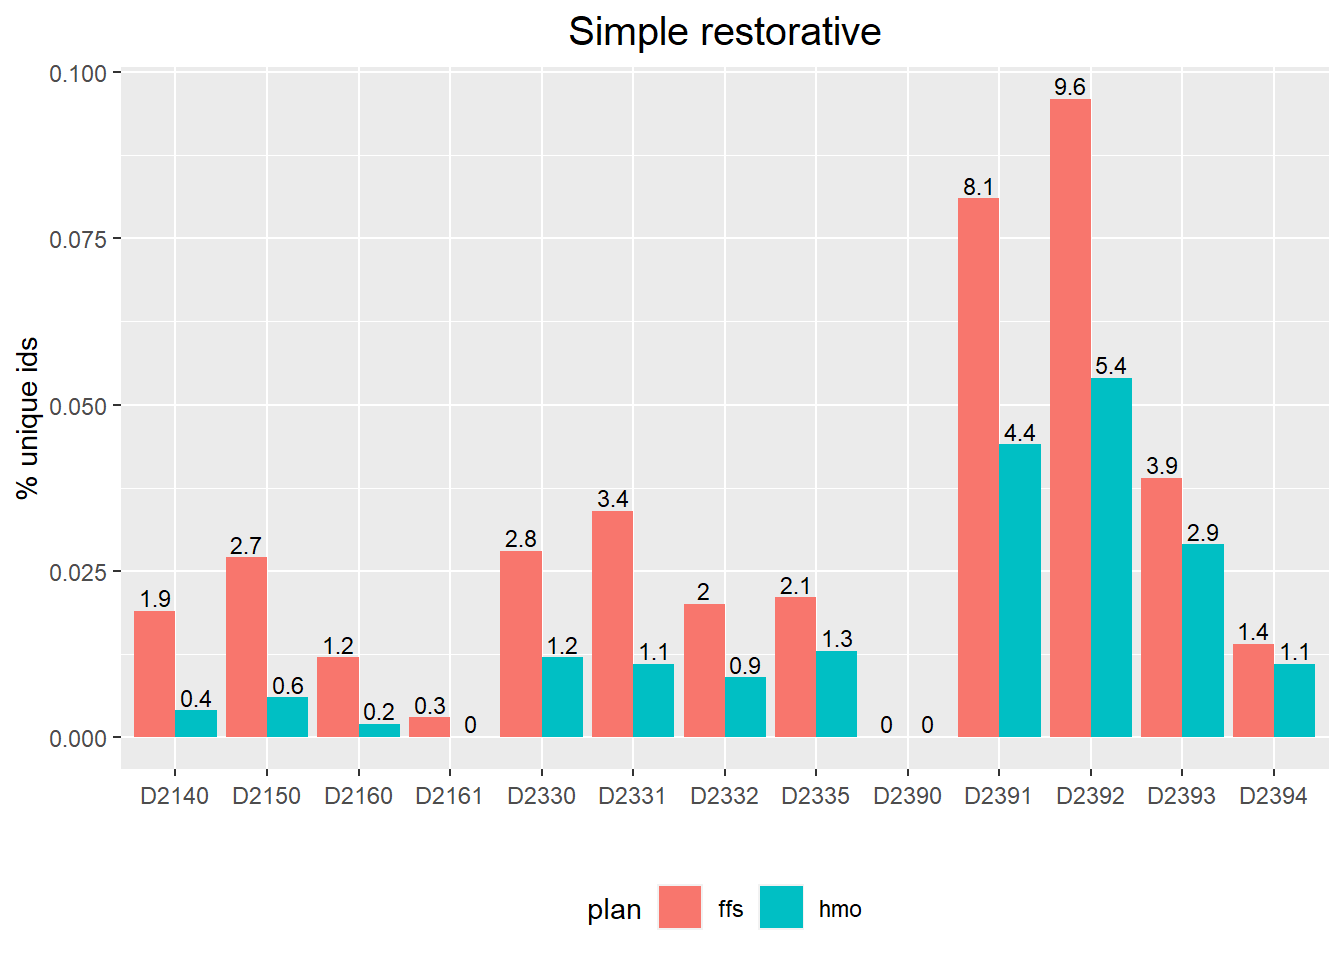
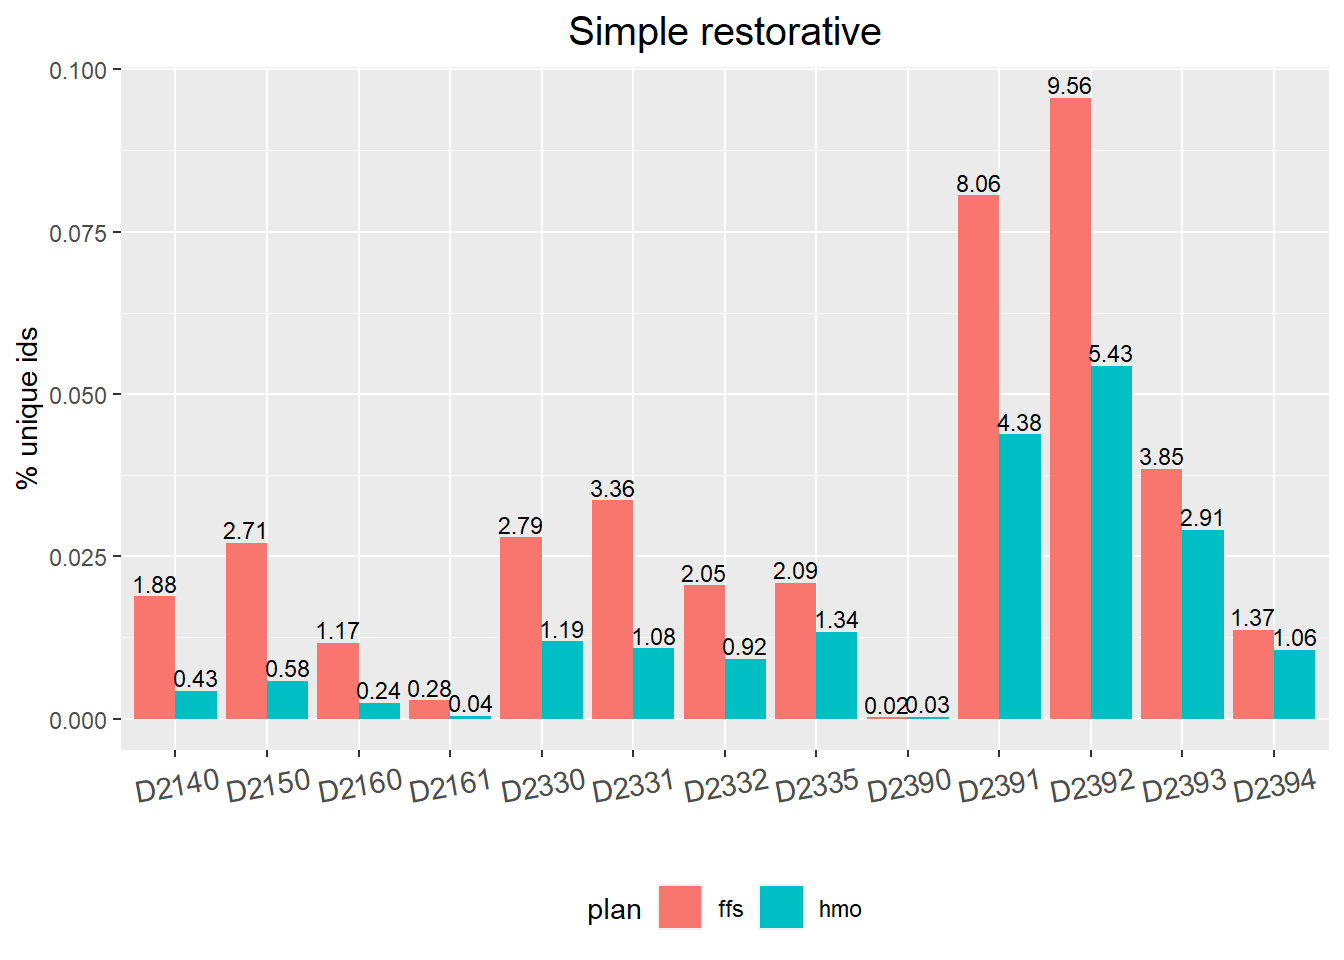
11/4/2024

diff --git a/docs/part3.html b/docs/part3.html
@@ -416,7 +416,7 @@ aria-hidden="true"></span> </a>
 <div class="tab-content">
 <div id="summary" class="tab-pane fade in active">
 <p>
-<strong>Last updated:</strong> 2024-11-01
+<strong>Last updated:</strong> 2024-11-04
 </p>
 <p>
 <strong>Checks:</strong> <span
@@ -550,15 +550,15 @@ project makes it easier to run your code on other machines.</p>
 <div class="panel panel-default">
 <div class="panel-heading">
 <p class="panel-title">
-<a data-toggle="collapse" data-parent="#workflowr-checks" href="#strongRepositoryversionstrongahrefhttpsgithubcomhan16Oralpublichealthtree2da4b5e4b8f3a76e1f629f2bcb849fd30c4a92abtargetblank2da4b5ea">
+<a data-toggle="collapse" data-parent="#workflowr-checks" href="#strongRepositoryversionstrongahrefhttpsgithubcomhan16Oralpublichealthtreef0d765cd293d3217e3730fe6b5bce113d9d0e7cetargetblankf0d765ca">
 <span class="glyphicon glyphicon-ok text-success"
 aria-hidden="true"></span> <strong>Repository version:</strong>
-<a href="https://github.com/han16/Oral-public-health/tree/2da4b5e4b8f3a76e1f629f2bcb849fd30c4a92ab" target="_blank">2da4b5e</a>
+<a href="https://github.com/han16/Oral-public-health/tree/f0d765cd293d3217e3730fe6b5bce113d9d0e7ce" target="_blank">f0d765c</a>
 </a>
 </p>
 </div>
 <div
[2 lines of base64/hex data omitted]
 class="panel-collapse collapse">
 <div class="panel-body">
 <p>
@@ -568,7 +568,7 @@ reproducibility.
 </p>
 <p>
 The results in this page were generated with repository version
-<a href="https://github.com/han16/Oral-public-health/tree/2da4b5e4b8f3a76e1f629f2bcb849fd30c4a92ab" target="_blank">2da4b5e</a>.
+<a href="https://github.com/han16/Oral-public-health/tree/f0d765cd293d3217e3730fe6b5bce113d9d0e7ce" target="_blank">f0d765c</a>.
 See the <em>Past versions</em> tab to see a history of the changes made
 to the R Markdown and HTML files.
 </p>
@@ -585,6 +585,7 @@ were generated:
 Ignored files:
     Ignored:    .Rhistory
     Ignored:    analysis/ddwi_part1_cache/
+    Ignored:    analysis/figure/
     Ignored:    analysis/part1_cache/
 
 Unstaged changes:
@@ -633,6 +634,40 @@ Message
 </tr>
 </thead>
 <tbody>
+<tr>
+<td>
+Rmd
+</td>
+<td>
+<a href="https://github.com/han16/Oral-public-health/blob/f0d765cd293d3217e3730fe6b5bce113d9d0e7ce/analysis/part3.Rmd" target="_blank">f0d765c</a>
+</td>
+<td>
+han
+</td>
+<td>
+2024-11-01
+</td>
+<td>
+11/1/2024
+</td>
+</tr>
+<tr>
+<td>
+html
+</td>
+<td>
+<a href="https://rawcdn.githack.com/han16/Oral-public-health/f0d765cd293d3217e3730fe6b5bce113d9d0e7ce/docs/part3.html" target="_blank">f0d765c</a>
+</td>
+<td>
+han
+</td>
+<td>
+2024-11-01
+</td>
+<td>
+11/1/2024
+</td>
+</tr>
 <tr>
 <td>
 Rmd
@@ -955,6 +990,22 @@ calculate_prop=function(code)
   hmo_prop=length(unique(data_year2019$hmo_claims_2019 %&gt;% filter(PROCEDURE_CODE==code) %&gt;% select(RECIPIENT_ID) %&gt;% pull))/num_id_hmo
   ffs_prop=length(unique(data_year2019$ffs_claims_2019 %&gt;% filter(PROCEDURE_CODE==code) %&gt;% select(RECIPIENT_ID) %&gt;% pull))/num_id_ffs
   return(list(hmo_prop, ffs_prop))
+}
+
+plot_figure=function(data, title, angle=0, num_size=3)
+{
+  
+  fig=ggplot(data, aes(x=code, y=prop,fill=plan)) +geom_bar(position = &quot;dodge&quot;, stat=&quot;identity&quot;)+
+ # ylim(c(0, 0.7))+
+  ylab(&quot;% unique ids&quot;)+
+  xlab(&quot;&quot;)+
+  theme(legend.position=&quot;bottom&quot;)+
+  theme(axis.text.x = element_text(angle = angle, vjust = 0.5, size=11))+
+  geom_text(aes(label=prop*100), position=position_dodge(width=0.9), vjust=-0.25, size=num_size)+  # add numbers over bars
+  ggtitle(title)+
+  theme(plot.title = element_text(hjust = 0.5, size=15))  #center the title
+  
+  return(fig)
 }</code></pre>
 <div id="diagnostic-all-cdt-codes-in-the-range-of-d0100-to-d0999"
 class="section level3">
@@ -963,15 +1014,8 @@ class="section level3">
 y=sapply(diagnostic_code,calculate_prop)
 
 
-ggplot(data.frame(prop=round(unlist(y),3), code=rep(diagnostic_code, each=2), plan=rep(c(&quot;hmo&quot;, &quot;ffs&quot;), length(diagnostic_code))), aes(x=code, y=prop,fill=plan)) +geom_bar(position = &quot;dodge&quot;, stat=&quot;identity&quot;)+
- # ylim(c(0, 0.7))+
-  ylab(&quot;% unique ids&quot;)+
-  xlab(&quot;&quot;)+
-  theme(legend.position=&quot;bottom&quot;)+
-  theme(axis.text.x = element_text(angle = 30, vjust = 0.5, size=11))+
-  geom_text(aes(label=prop*100), position=position_dodge(width=0.9), vjust=-0.25, size=3)+  # add numbers over bars
-  ggtitle(&quot;Diagnostic All CDT codes&quot;)+
-  theme(plot.title = element_text(hjust = 0.5, size=15))  #center the title</code></pre>
+fig=plot_figure(data.frame(prop=round(unlist(y),3), code=rep(diagnostic_code, each=2), plan=rep(c(&quot;hmo&quot;, &quot;ffs&quot;), length(diagnostic_code))), title=&quot;Diagnostic All CDT codes&quot;, angle=30)
+fig</code></pre>
 <p><img src="figure/part3.Rmd/unnamed-chunk-6-1.png" width="672" style="display: block; margin: auto;" /></p>
 <p>
 <button type="button" class="btn btn-default btn-xs btn-workflowr btn-workflowr-fig" data-toggle="collapse" data-target="#fig-unnamed-chunk-6-1">
@@ -995,6 +1039,17 @@ Date
 </tr>
 </thead>
 <tbody>
+<tr>
+<td>
+<a href="https://github.com/han16/Oral-public-health/blob/f0d765cd293d3217e3730fe6b5bce113d9d0e7ce/docs/figure/part3.Rmd/unnamed-chunk-6-1.png" target="_blank">f0d765c</a>
+</td>
+<td>
+han
+</td>
+<td>
+2024-11-01
+</td>
+</tr>
 <tr>
 <td>
 <a href="https://github.com/han16/Oral-public-health/blob/b2d3108f818aa1d155a19fae289e4dda33764fef/docs/figure/part3.Rmd/unnamed-chunk-6-1.png" target="_blank">b2d3108</a>
@@ -1028,15 +1083,8 @@ D4342</h3>
 y=sapply(preventive_code,calculate_prop)
 
 
-ggplot(data.frame(prop=round(unlist(y),3), code=rep(preventive_code, each=2), plan=rep(c(&quot;hmo&quot;, &quot;ffs&quot;), length(preventive_code))), aes(x=code, y=prop,fill=plan)) +geom_bar(position = &quot;dodge&quot;, stat=&quot;identity&quot;)+
- # ylim(c(0, 0.7))+
-  ylab(&quot;% unique ids&quot;)+
-  xlab(&quot;&quot;)+
-  theme(legend.position=&quot;bottom&quot;)+
-  theme(axis.text.x = element_text(angle = 0, vjust = 0.5, size=11))+
-  geom_text(aes(label=prop*100), position=position_dodge(width=0.9), vjust=-0.25, size=3)+  # add numbers over bars
-  ggtitle(&quot;Preventive procedures&quot;)+
-  theme(plot.title = element_text(hjust = 0.5, size=15))  #center the title</code></pre>
+fig=plot_figure(data.frame(prop=round(unlist(y),3), code=rep(preventive_code, each=2), plan=rep(c(&quot;hmo&quot;, &quot;ffs&quot;), length(preventive_code))), title=&quot;Preventive procedures&quot;, angle=0)
+fig</code></pre>
 <p><img src="figure/part3.Rmd/unnamed-chunk-7-1.png" width="672" style="display: block; margin: auto;" /></p>
 <p>
 <button type="button" class="btn btn-default btn-xs btn-workflowr btn-workflowr-fig" data-toggle="collapse" data-target="#fig-unnamed-chunk-7-1">
@@ -1062,6 +1110,17 @@ Date
 <tbody>
 <tr>
 <td>
+<a href="https://github.com/han16/Oral-public-health/blob/f0d765cd293d3217e3730fe6b5bce113d9d0e7ce/docs/figure/part3.Rmd/unnamed-chunk-7-1.png" target="_blank">f0d765c</a>
+</td>
+<td>
+han
+</td>
+<td>
+2024-11-01
+</td>
+</tr>
+<tr>
+<td>
 <a href="https://github.com/han16/Oral-public-health/blob/2da4b5e4b8f3a76e1f629f2bcb849fd30c4a92ab/docs/figure/part3.Rmd/unnamed-chunk-7-1.png" target="_blank">2da4b5e</a>
 </td>
 <td>
@@ -1083,6 +1142,9 @@ datatable(extensions = &#39;Buttons&#39;,
                                              c(10,25,50,&quot;All&quot;))))</code></pre>
 <div class="datatables html-widget html-fill-item" id="htmlwidget-f30d7598595affc4f25a" style="width:100%;height:auto;"></div>
 <script type="application/json" data-for="htmlwidget-f30d7598595affc4f25a">{"x":{"filter":"none","vertical":false,"extensions":["Buttons"],"data":[["1","2","3","4","5","6","7","8","9","10","11","12","13","14"],[0.12,0.191,0.098,0.189,0.09,0.335,0,0,0.031,0.079,0.007,0.002,0.002,0.004],["D1110","D1110","D1120","D1120","D1206","D1206","D1203","D1203","D1351","D1351","D4341","D4341","D4342","D4342"],["hmo","ffs","hmo","ffs","hmo","ffs","hmo","ffs","hmo","ffs","hmo","ffs","hmo","ffs"]],"container":"<table class=\"display\">\n  <thead>\n    <tr>\n      <th> <\/th>\n      <th>prop<\/th>\n      <th>code<\/th>\n      <th>plan<\/th>\n    <\/tr>\n  <\/thead>\n<\/table>","options":{"dom":"Blfrtip","buttons":["copy","csv","excel","pdf","print"],"lengthMenu":[[10,25,50,-1],["10","25","50","All"]],"columnDefs":[{"className":"dt-right","targets":1},{"orderable":false,"targets":0},{"name":" ","targets":0},{"name":"prop","targets":1},{"name":"code","targets":2},{"name":"plan","targets":3}],"order":[],"autoWidth":false,"orderClasses":false},"selection":{"mode":"multiple","selected":null,"target":"row","selectable":null}},"evals":[],"jsHooks":[]}</script>
+<ul>
+<li>no individual for code “D1203</li>
+</ul>
 </div>
 <div id="simple-restorative-d2000-to-d2430" class="section level3">
 <h3>Simple restorative D2000 to D2430</h3>
@@ -1090,15 +1152,8 @@ datatable(extensions = &#39;Buttons&#39;,
 y=sapply(restorative_code,calculate_prop)
 
 
-ggplot(data.frame(prop=round(unlist(y),3), code=rep(restorative_code, each=2), plan=rep(c(&quot;hmo&quot;, &quot;ffs&quot;), length(restorative_code))), aes(x=code, y=prop,fill=plan)) +geom_bar(position = &quot;dodge&quot;, stat=&quot;identity&quot;)+
- # ylim(c(0, 0.7))+
-  ylab(&quot;% unique ids&quot;)+
-  xlab(&quot;&quot;)+
-  theme(legend.position=&quot;bottom&quot;)+
-  theme(axis.text.x = element_text(angle = 0, vjust = 0.5, size=9))+
-  geom_text(aes(label=prop*100), position=position_dodge(width=0.9), vjust=-0.25, size=3)+  # add numbers over bars
-  ggtitle(&quot;Simple restorative&quot;)+
-  theme(plot.title = element_text(hjust = 0.5, size=15))  #center the title</code></pre>
+fig=plot_figure(data.frame(prop=round(unlist(y),4), code=rep(restorative_code, each=2), plan=rep(c(&quot;hmo&quot;, &quot;ffs&quot;), length(restorative_code))), title=&quot;Simple restorative&quot;, angle=10)
+fig</code></pre>
 <p><img src="figure/part3.Rmd/unnamed-chunk-8-1.png" width="672" style="display: block; margin: auto;" /></p>
 <p>
 <button type="button" class="btn btn-default btn-xs btn-workflowr btn-workflowr-fig" data-toggle="collapse" data-target="#fig-unnamed-chunk-8-1">
@@ -1124,6 +1179,17 @@ Date
 <tbody>
 <tr>
 <td>
+<a href="https://github.com/han16/Oral-public-health/blob/f0d765cd293d3217e3730fe6b5bce113d9d0e7ce/docs/figure/part3.Rmd/unnamed-chunk-8-1.png" target="_blank">f0d765c</a>
+</td>
+<td>
+han
+</td>
+<td>
+2024-11-01
+</td>
+</tr>
+<tr>
+<td>
 <a href="https://github.com/han16/Oral-public-health/blob/2da4b5e4b8f3a76e1f629f2bcb849fd30c4a92ab/docs/figure/part3.Rmd/unnamed-chunk-8-1.png" target="_blank">2da4b5e</a>
 </td>
 <td>
@@ -1137,14 +1203,71 @@ han
 </table>
 </div>
 </div>
-<pre class="r"><code>data.frame(prop=round(unlist(y),3), code=rep(restorative_code, each=2), plan=rep(c(&quot;hmo&quot;, &quot;ffs&quot;), length(restorative_code)))%&gt;%
+<pre class="r"><code>data.frame(prop=round(unlist(y),4), code=rep(restorative_code, each=2), plan=rep(c(&quot;hmo&quot;, &quot;ffs&quot;), length(restorative_code)))%&gt;%
 datatable(extensions = &#39;Buttons&#39;,
             options = list(dom = &#39;Blfrtip&#39;,
                            buttons = c(&#39;copy&#39;, &#39;csv&#39;, &#39;excel&#39;, &#39;pdf&#39;, &#39;print&#39;),
                            lengthMenu = list(c(10,25,50,-1),
                                              c(10,25,50,&quot;All&quot;))))</code></pre>
 <div class="datatables html-widget html-fill-item" id="htmlwidget-b85bf888dc62471906a9" style="width:100%;height:auto;"></div>
-<script type="application/json" data-for="htmlwidget-b85bf888dc62471906a9">{"x":{"filter":"none","vertical":false,"extensions":["Buttons"],"data":[["1","2","3","4","5","6","7","8","9","10","11","12","13","14","15","16","17","18","19","20","21","22","23","24","25","26"],[0.004,0.019,0.006,0.027,0.002,0.012,0,0.003,0.012,0.028,0.011,0.034,0.008999999999999999,0.02,0.013,0.021,0,0,0.044,0.081,0.054,0.096,0.029,0.039,0.011,0.014],["D2140","D2140","D2150","D2150","D2160","D2160","D2161","D2161","D2330","D2330","D2331","D2331","D2332","D2332","D2335","D2335","D2390","D2390","D2391","D2391","D2392","D2392","D2393","D2393","D2394","D2394"],["hmo","ffs","hmo","ffs","hmo","ffs","hmo","ffs","hmo","ffs","hmo","ffs","hmo","ffs","hmo","ffs","hmo","ffs","hmo","ffs","hmo","ffs","hmo","ffs","hmo","ffs"]],"container":"<table class=\"display\">\n  <thead>\n    <tr>\n      <th> <\/th>\n      <th>prop<\/th>\n      <th>code<\/th>\n      <th>plan<\/th>\n    <\/tr>\n  <\/thead>\n<\/table>","options":{"dom":"Blfrtip","buttons":["copy","csv","excel","pdf","print"],"lengthMenu":[[10,25,50,-1],["10","25","50","All"]],"columnDefs":[{"className":"dt-right","targets":1},{"orderable":false,"targets":0},{"name":" ","targets":0},{"name":"prop","targets":1},{"name":"code","targets":2},{"name":"plan","targets":3}],"order":[],"autoWidth":false,"orderClasses":false},"selection":{"mode":"multiple","selected":null,"target":"row","selectable":null}},"evals":[],"jsHooks":[]}</script>
+<script type="application/json" data-for="htmlwidget-b85bf888dc62471906a9">{"x":{"filter":"none","vertical":false,"extensions":["Buttons"],"data":[["1","2","3","4","5","6","7","8","9","10","11","12","13","14","15","16","17","18","19","20","21","22","23","24","25","26"],[0.0043,0.0188,0.0058,0.0271,0.0024,0.0117,0.0004,0.0028,0.0119,0.0279,0.0108,0.0336,0.0092,0.0205,0.0134,0.0209,0.0003,0.0002,0.0438,0.0806,0.0543,0.0956,0.0291,0.0385,0.0106,0.0137],["D2140","D2140","D2150","D2150","D2160","D2160","D2161","D2161","D2330","D2330","D2331","D2331","D2332","D2332","D2335","D2335","D2390","D2390","D2391","D2391","D2392","D2392","D2393","D2393","D2394","D2394"],["hmo","ffs","hmo","ffs","hmo","ffs","hmo","ffs","hmo","ffs","hmo","ffs","hmo","ffs","hmo","ffs","hmo","ffs","hmo","ffs","hmo","ffs","hmo","ffs","hmo","ffs"]],"container":"<table class=\"display\">\n  <thead>\n    <tr>\n      <th> <\/th>\n      <th>prop<\/th>\n      <th>code<\/th>\n      <th>plan<\/th>\n    <\/tr>\n  <\/thead>\n<\/table>","options":{"dom":"Blfrtip","buttons":["copy","csv","excel","pdf","print"],"lengthMenu":[[10,25,50,-1],["10","25","50","All"]],"columnDefs":[{"className":"dt-right","targets":1},{"orderable":false,"targets":0},{"name":" ","targets":0},{"name":"prop","targets":1},{"name":"code","targets":2},{"name":"plan","targets":3}],"order":[],"autoWidth":false,"orderClasses":false},"selection":{"mode":"multiple","selected":null,"target":"row","selectable":null}},"evals":[],"jsHooks":[]}</script>
+</div>
+<div id="complex-restorative-procedures-d2510-to-d2999"
+class="section level3">
+<h3>complex restorative procedures (D2510 to D2999)</h3>
+<pre class="r"><code>restorative_code=sort(hmo_ffs_code[substr(hmo_ffs_code, start = 1, stop = 2)==&quot;D2&quot;])[14:26]
+y=sapply(restorative_code,calculate_prop)
+
+
+fig=plot_figure(data.frame(prop=round(unlist(y),5), code=rep(restorative_code, each=2), plan=rep(c(&quot;hmo&quot;, &quot;ffs&quot;), length(restorative_code))), title=&quot;Simple restorative&quot;, angle=10, num_size=2)
+fig</code></pre>
+<p><img src="figure/part3.Rmd/unnamed-chunk-9-1.png" width="672" style="display: block; margin: auto;" /></p>
+<pre class="r"><code>data.frame(prop=round(unlist(y),5), code=rep(restorative_code, each=2), plan=rep(c(&quot;hmo&quot;, &quot;ffs&quot;), length(restorative_code)))%&gt;%
+datatable(extensions = &#39;Buttons&#39;,
+            options = list(dom = &#39;Blfrtip&#39;,
+                           buttons = c(&#39;copy&#39;, &#39;csv&#39;, &#39;excel&#39;, &#39;pdf&#39;, &#39;print&#39;),
+                           lengthMenu = list(c(10,25,50,-1),
+                                             c(10,25,50,&quot;All&quot;))))</code></pre>
+<div class="datatables html-widget html-fill-item" id="htmlwidget-88fdd2a34d502a66744b" style="width:100%;height:auto;"></div>
+<script type="application/json" data-for="htmlwidget-88fdd2a34d502a66744b">{"x":{"filter":"none","vertical":false,"extensions":["Buttons"],"data":[["1","2","3","4","5","6","7","8","9","10","11","12","13","14","15","16","17","18","19","20","21","22","23","24","25","26"],[0.00078,0.00507,0.00102,0.00155,0.00011,0.00022,0.00777,0.01304,0.00204,0.00214,0.00023,0.00012,6.999999999999999e-05,2e-05,0.00062,0.00099,0.00338,0.00852,0.00021,0.00163,2e-05,6.999999999999999e-05,0.00213,0.00039,0.00085,0.00489],["D2791","D2791","D2920","D2920","D2929","D2929","D2930","D2930","D2931","D2931","D2932","D2932","D2933","D2933","D2934","D2934","D2940","D2940","D2951","D2951","D2952","D2952","D2954","D2954","D2999","D2999"],["hmo","ffs","hmo","ffs","hmo","ffs","hmo","ffs","hmo","ffs","hmo","ffs","hmo","ffs","hmo","ffs","hmo","ffs","hmo","ffs","hmo","ffs","hmo","ffs","hmo","ffs"]],"container":"<table class=\"display\">\n  <thead>\n    <tr>\n      <th> <\/th>\n      <th>prop<\/th>\n      <th>code<\/th>\n      <th>plan<\/th>\n    <\/tr>\n  <\/thead>\n<\/table>","options":{"dom":"Blfrtip","buttons":["copy","csv","excel","pdf","print"],"lengthMenu":[[10,25,50,-1],["10","25","50","All"]],"columnDefs":[{"className":"dt-right","targets":1},{"orderable":false,"targets":0},{"name":" ","targets":0},{"name":"prop","targets":1},{"name":"code","targets":2},{"name":"plan","targets":3}],"order":[],"autoWidth":false,"orderClasses":false},"selection":{"mode":"multiple","selected":null,"target":"row","selectable":null}},"evals":[],"jsHooks":[]}</script>
+</div>
+<div id="endodontic-procedures-included-d3000-d3999"
+class="section level3">
+<h3>Endodontic procedures included D3000-D3999</h3>
+<pre class="r"><code>Endodontic_code=sort(hmo_ffs_code[substr(hmo_ffs_code, start = 1, stop = 2)==&quot;D3&quot;])
+y=sapply(Endodontic_code,calculate_prop)
+
+
+fig=plot_figure(data.frame(prop=round(unlist(y),5), code=rep(Endodontic_code, each=2), plan=rep(c(&quot;hmo&quot;, &quot;ffs&quot;), length(Endodontic_code))), title=&quot;Endodontic&quot;, angle=0, num_size=3)
+fig</code></pre>
+<p><img src="figure/part3.Rmd/unnamed-chunk-10-1.png" width="672" style="display: block; margin: auto;" /></p>
+<pre class="r"><code>data.frame(prop=round(unlist(y),5), code=rep(Endodontic_code, each=2), plan=rep(c(&quot;hmo&quot;, &quot;ffs&quot;), length(Endodontic_code)))%&gt;%
+datatable(extensions = &#39;Buttons&#39;,
+            options = list(dom = &#39;Blfrtip&#39;,
+                           buttons = c(&#39;copy&#39;, &#39;csv&#39;, &#39;excel&#39;, &#39;pdf&#39;, &#39;print&#39;),
+                           lengthMenu = list(c(10,25,50,-1),
+                                             c(10,25,50,&quot;All&quot;))))</code></pre>
+<div class="datatables html-widget html-fill-item" id="htmlwidget-8e1fe96c0688a849169a" style="width:100%;height:auto;"></div>
+<script type="application/json" data-for="htmlwidget-8e1fe96c0688a849169a">{"x":{"filter":"none","vertical":false,"extensions":["Buttons"],"data":[["1","2","3","4","5","6","7","8","9","10","11","12"],[2e-05,6.999999999999999e-05,0.00405,0.00399,0.00069,0.00074,0.00233,0.00259,0.00319,0.00241,0.00359,0.00153],["D3120","D3120","D3220","D3220","D3221","D3221","D3310","D3310","D3320","D3320","D3330","D3330"],["hmo","ffs","hmo","ffs","hmo","ffs","hmo","ffs","hmo","ffs","hmo","ffs"]],"container":"<table class=\"display\">\n  <thead>\n    <tr>\n      <th> <\/th>\n      <th>prop<\/th>\n      <th>code<\/th>\n      <th>plan<\/th>\n    <\/tr>\n  <\/thead>\n<\/table>","options":{"dom":"Blfrtip","buttons":["copy","csv","excel","pdf","print"],"lengthMenu":[[10,25,50,-1],["10","25","50","All"]],"columnDefs":[{"className":"dt-right","targets":1},{"orderable":false,"targets":0},{"name":" ","targets":0},{"name":"prop","targets":1},{"name":"code","targets":2},{"name":"plan","targets":3}],"order":[],"autoWidth":false,"orderClasses":false},"selection":{"mode":"multiple","selected":null,"target":"row","selectable":null}},"evals":[],"jsHooks":[]}</script>
+</div>
+<div id="extractionsurgical-procedures--d7111-d7140-d7210"
+class="section level3">
+<h3>extraction/surgical procedures- D7111, D7140, D7210</h3>
+<pre class="r"><code>extra_surg_code=c(&quot;D7111&quot;, &quot;D7140&quot;, &quot;D7210&quot;)
+y=sapply(extra_surg_code,calculate_prop)
+
+
+fig=plot_figure(data.frame(prop=round(unlist(y),3), code=rep(extra_surg_code, each=2), plan=rep(c(&quot;hmo&quot;, &quot;ffs&quot;), length(extra_surg_code))), title=&quot;extraction/surgical procedures&quot;, angle=0, num_size=4)
+fig</code></pre>
+<p><img src="figure/part3.Rmd/unnamed-chunk-11-1.png" width="672" style="display: block; margin: auto;" /></p>
+<pre class="r"><code>data.frame(prop=round(unlist(y),3), code=rep(extra_surg_code, each=2), plan=rep(c(&quot;hmo&quot;, &quot;ffs&quot;), length(extra_surg_code)))%&gt;%
+datatable(extensions = &#39;Buttons&#39;,
+            options = list(dom = &#39;Blfrtip&#39;,
+                           buttons = c(&#39;copy&#39;, &#39;csv&#39;, &#39;excel&#39;, &#39;pdf&#39;, &#39;print&#39;),
+                           lengthMenu = list(c(10,25,50,-1),
+                                             c(10,25,50,&quot;All&quot;))))</code></pre>
+<div class="datatables html-widget html-fill-item" id="htmlwidget-bb3486349adfa5d821dc" style="width:100%;height:auto;"></div>
+<script type="application/json" data-for="htmlwidget-bb3486349adfa5d821dc">{"x":{"filter":"none","vertical":false,"extensions":["Buttons"],"data":[["1","2","3","4","5","6"],[0.002,0.004,0.043,0.113,0.039,0.024],["D7111","D7111","D7140","D7140","D7210","D7210"],["hmo","ffs","hmo","ffs","hmo","ffs"]],"container":"<table class=\"display\">\n  <thead>\n    <tr>\n      <th> <\/th>\n      <th>prop<\/th>\n      <th>code<\/th>\n      <th>plan<\/th>\n    <\/tr>\n  <\/thead>\n<\/table>","options":{"dom":"Blfrtip","buttons":["copy","csv","excel","pdf","print"],"lengthMenu":[[10,25,50,-1],["10","25","50","All"]],"columnDefs":[{"className":"dt-right","targets":1},{"orderable":false,"targets":0},{"name":" ","targets":0},{"name":"prop","targets":1},{"name":"code","targets":2},{"name":"plan","targets":3}],"order":[],"autoWidth":false,"orderClasses":false},"selection":{"mode":"multiple","selected":null,"target":"row","selectable":null}},"evals":[],"jsHooks":[]}</script>
 <br>
 <p>
 <button type="button" class="btn btn-default btn-workflowr btn-workflowr-sessioninfo" data-toggle="collapse" data-target="#workflowr-sessioninfo" style="display: block;">
